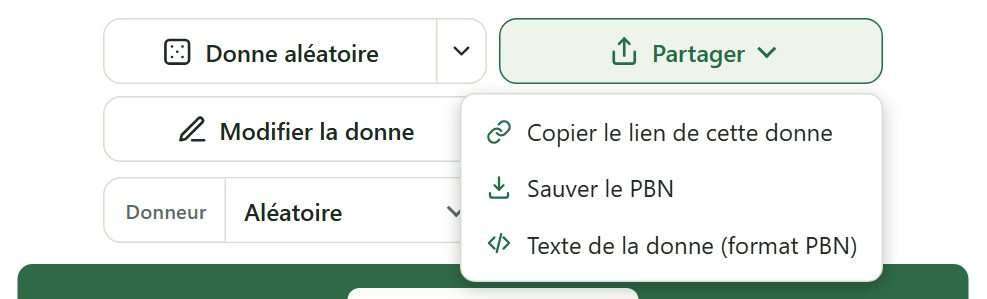
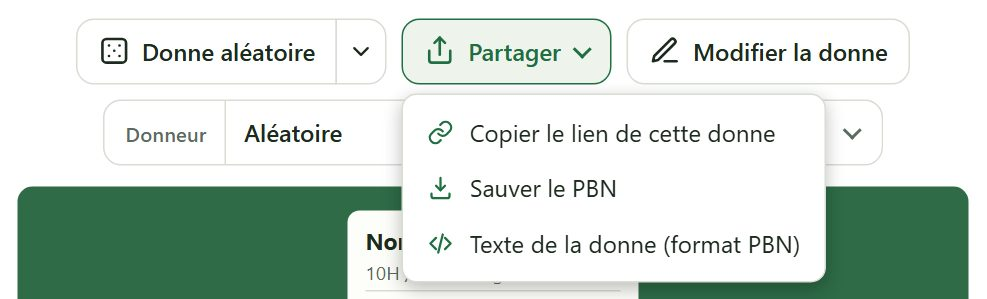
Donne : plus de phrase d'accueil, les trois commandes sur une ligne
Deux allègements du haut du panneau de la donne.

La phrase « Composez une donne — l'application déroule les enchères… »
disparaît : elle disait ce que le titre et les boutons disent déjà, et
occupait la première ligne du panneau. Sa clé de traduction (intro) et ses
deux règles de style partent avec elle.

Donne aléatoire, Partager et Modifier la donne tiennent maintenant sur une
ligne. Elles étaient en grille de deux colonnes dès que le panneau passait
sous 820 px — soit presque toujours, le panneau faisant 723 px de contenu sur
un écran de 1532 px. Il y faut 551 px de contenu en français (« Donne
aléatoire » est le plus long des trois), 471 px en anglais : le seuil de la
grille redescend donc à 560 px, et les trois commandes se suivent sur une
ligne partout ailleurs. La grille de deux colonnes reste pour les écrans qui
ne les logent pas — téléphone, et panneau étroit de la disposition à deux
colonnes sous 1160 px —, la dernière seule sur la seconde ligne, comme avant.

Le seuil des deux champs (820 px) ne bouge pas : Donneur et Vulnérabilité
gardent leur grille de même largeur.

Captures du tutoriel reprises par tools/tutorial/run.ps1, comme le demande le
README après tout changement visible : 24 images sur 32.

diff --git a/cli/style.css b/cli/style.css
@@ -218,27 +218,13 @@ h1 { font-size: 1.25rem; margin: 0; }
 main { max-width: 1060px; margin: 24px auto; padding: 0 16px; }
 main.workspace { max-width: 1440px; }
 
-/* La phrase qui dit à quoi sert la page : présente sans peser, elle se lit
-   une fois puis s'oublie. */
 /* Le haut du panneau de la donne, centré comme son bas l'est déjà : les
    commandes des contraintes et la ligne du questionnaire passent par
-   .row-centered, mais le titre, la phrase d'accueil et le repli du texte PBN
-   restaient calés à gauche. Les deux rangées de boutons, elles, ont reçu dans
-   le HTML la classe qui existait pour cela. */
+   .row-centered, mais le titre et le repli du texte PBN restaient calés à
+   gauche. Les deux rangées de boutons, elles, ont reçu dans le HTML la classe
+   qui existait pour cela. */
 #input-panel h2,
-#input-panel .panel-intro,
 #input-panel .pbn-note { text-align: center; }
-
-/* Pas de largeur maximale : une mesure de 62 caractères repliait la phrase
-   en plein milieu — « du système / français » — alors que le panneau était
-   deux fois plus large. Une seule phrase supporte sa longueur ; elle se
-   replie d'elle-même quand la fenêtre se resserre. */
-.panel-intro {
-  margin: -4px 0 14px;
-  color: var(--muted);
-  font-size: .9rem;
-  line-height: 1.5;
-}
 
 .app-version {
   max-width: 1060px;
@@ -536,13 +522,14 @@ button:disabled { opacity: .6; cursor: wait; }
   transform: rotate(45deg);
   pointer-events: none;
 }
-/* Quand les trois boutons ne tiennent plus sur une ligne, ils passent en
-   grille de deux colonnes de largeurs égales — le dernier reste seul sur la
-   seconde : une troisième colonne serrerait « Donne aléatoire » jusqu'à
-   rogner son libellé. Les deux champs prennent la même grille. */
-@container (max-width: 820px) {
-  .deal-cmds,
-  #deal-actions .field-group {
+/* Les trois commandes tiennent sur une ligne tant que le panneau a de quoi
+   les loger : il y faut 551 px de contenu en français — « Donne aléatoire »
+   est le plus long des trois —, 471 px en anglais. En deçà, et sur
+   téléphone, elles passent en grille de deux colonnes de largeurs égales : la
+   dernière reste seule sur la seconde, une troisième colonne serrant « Donne
+   aléatoire » jusqu'à rogner son libellé. */
+@container (max-width: 560px) {
+  .deal-cmds {
     display: grid;
     grid-template-columns: repeat(2, minmax(0, 1fr));
     gap: 8px;
@@ -555,6 +542,18 @@ button:disabled { opacity: .6; cursor: wait; }
   /* Partager tombe dans la colonne de droite : ancré à gauche, son menu
      débordait de l'écran du téléphone. Il s'aligne sur le bord droit. */
   #share-pop { left: auto; right: 0; }
+}
+/* Donneur et Vulnérabilité gardent leur seuil, plus large que celui des
+   commandes : deux champs côte à côte dans une grille de même largeur, pour
+   que les deux rangées du panneau s'alignent ; groupés, ils ne se séparent
+   jamais au fil des largeurs d'écran (voir .field-group). */
+@container (max-width: 820px) {
+  #deal-actions .field-group {
+    display: grid;
+    grid-template-columns: repeat(2, minmax(0, 1fr));
+    gap: 8px;
+    width: min(100%, 520px);
+  }
   #deal-actions .field { min-width: 0; }
   #deal-actions .field select { flex: 1; min-width: 0; }
 }

diff --git a/cli/app.js b/cli/app.js
@@ -238,9 +238,6 @@ const UI_TEXT = {
     helpOpen: "Mode d'emploi",
     helpTitle: "Mode d'emploi",
     helpClose: "Fermer le mode d'emploi",
-    intro:
-      "Composez une donne — l'application déroule les enchères du système " +
-      "français et les commente, enchère par enchère.",
     pbnToggle: "Texte de la donne (format PBN)",
     moreDeals: "Autres façons d'obtenir une donne",
     editDeal: "Modifier la donne",
@@ -472,9 +469,6 @@ const UI_TEXT = {
     helpOpen: "How to use",
     helpTitle: "How to use",
     helpClose: "Close the guide",
-    intro:
-      "Build a deal — the application runs the French system's auction and " +
-      "comments on it, call by call.",
     pbnToggle: "Deal as text (PBN format)",
     moreDeals: "Other ways to get a deal",
     editDeal: "Edit the deal",

diff --git a/cli/index.html b/cli/index.html
@@ -266,9 +266,6 @@
         <button id="theme-bar-change" type="button" class="theme-bar-btn" data-i18n="themeBarChange">Changer</button>
         <button id="theme-bar-quit" type="button" class="theme-bar-btn theme-bar-quit"></button>
       </div>
-      <!-- Une phrase, et une seule : la page s'ouvrait sur un tapis de cartes
-           sans que rien ne dise à quoi elle sert. -->
-      <p class="panel-intro" data-i18n="intro">Composez une donne — l'application déroule les enchères du système français et les commente, enchère par enchère.</p>
       <div class="row row-centered" id="deal-actions">
         <!-- Les trois commandes de la donne, sur une rangée (une grille de deux
              colonnes sur téléphone) ; Donneur et Vulnérabilité en dessous. -->
